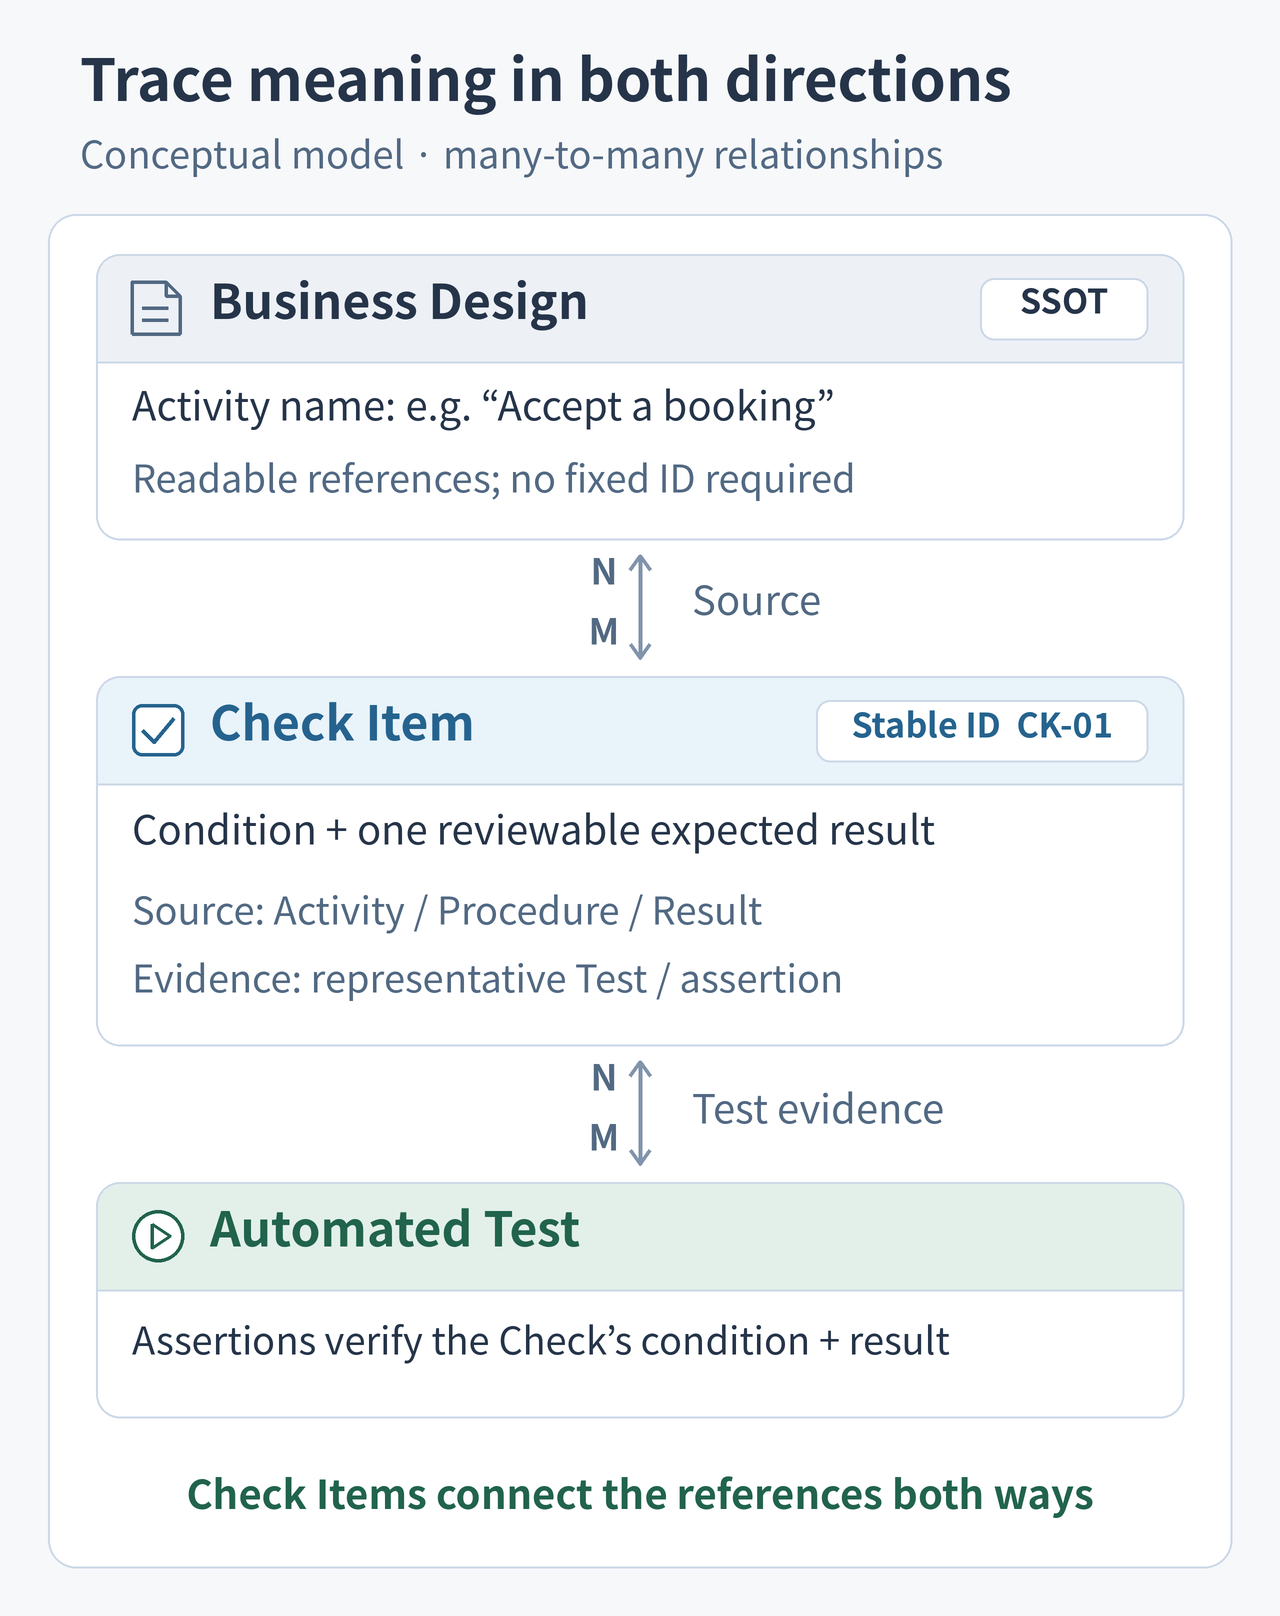
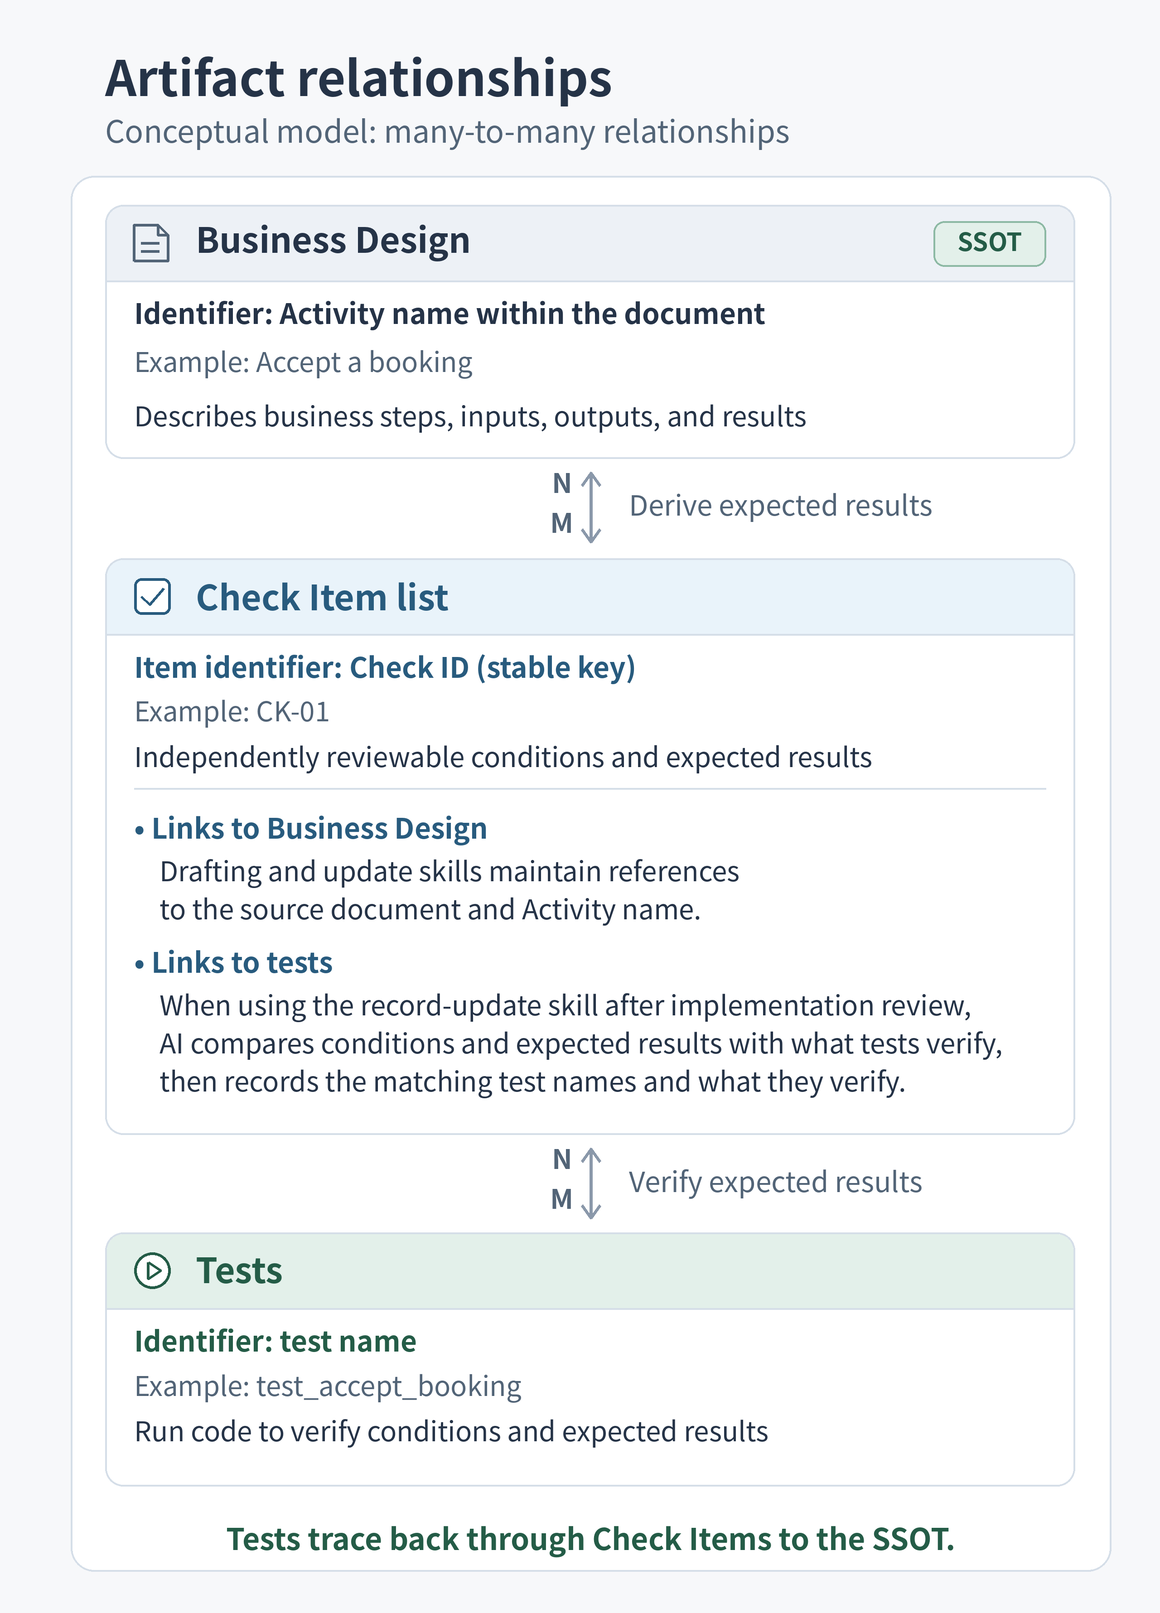
docs: synchronize English artifact explanation with approved Japanese

Changed region(s): [[0.0621, 0.031, 0.931, 0.9919], [0.7759, 0.124, 0.931, 0.217], [0.9, 0.217, 0.931, 0.248]]

diff --git a/docs/images/traceability/render.py b/docs/images/traceability/render.py
@@ -7,9 +7,9 @@ Run from any directory:
 Requires Pillow and Noto Sans CJK JP (regular and bold TTC files). The default
 font directory is the Debian/Ubuntu fonts-noto-cjk location; --font-dir can
 select another installation. Rendering performs no network access. Each source
-canvas is 640 logical pixels wide. Japanese images use the creation-workflow
-scale (1160px source width); English images retain their existing 1280px width.
-Japanese typography is derived from the 1160px creation-workflow original:
+canvas is 640 logical pixels wide. Model and execution diagrams in both languages
+use the creation-workflow scale (1160px source width), as does Japanese drift.
+English drift retains its existing 1280px width. Creation-workflow typography:
 49px title / 35px card heading / 27px body, all displayed at README width=640.
 All text is checked against its allotted width.
 """
@@ -309,75 +309,85 @@ def drift_ja():
     return c
 
 
-def model(lang):
-    if lang == "ja":
-        return model_ja()
-    ja = lang == "ja"
-    c = Canvas(808)
-    c.title("業務の意味と検証をつなぐ" if ja else "Trace meaning in both directions",
-            "概念モデル：多対多の追跡関係" if ja else "Conceptual model · many-to-many relationships")
-    c.rect(24, 107, 592, 677, radius=14)
-    entity(c, 127, 143, "Business Design", "document", badge="SSOT")
-    c.text(66, 194, "Activity名（例：予約を受け付ける）" if ja
-           else "Activity name: e.g. “Accept a booking”", 20, max_width=507)
-    c.text(66, 231, "人が読める記述で参照。固定IDは不要" if ja
-           else "Readable references; no fixed ID required", 19, color="muted", max_width=507)
-    relation(c, 278, 329, "根拠" if ja else "Source")
-    entity(c, 338, 185, "Check Item", "check", fill="blue", ink="blue_ink",
-           badge="安定ID  CK-01" if ja else "Stable ID  CK-01")
-    c.text(66, 406, "条件 ＋ 独立してレビューできる期待結果" if ja
-           else "Condition + one reviewable expected result", 20, max_width=507)
-    c.text(66, 447, "根拠：Activity / Procedure / Result" if ja
-           else "Source: Activity / Procedure / Result", 19, color="muted", max_width=507)
-    c.text(66, 481, "検証根拠：代表Test / assertion" if ja
-           else "Evidence: representative Test / assertion", 19, color="muted", max_width=507)
-    relation(c, 531, 582, "検証根拠" if ja else "Test evidence")
-    entity(c, 591, 118, "Automated Test", "play", fill="green", ink="green_ink")
-    c.text(66, 662, "Checkの条件・期待結果をassertionで検証" if ja
-           else "Assertions verify the Check’s condition + result", 19, max_width=507)
-    c.text(320, 738, "Check Itemが双方向の追跡を中継する" if ja
-           else "Check Items connect the references both ways", 20, True,
-           "green_ink", max_width=540, center=True)
+def model_en():
+    c = JapaneseCanvas(890)
+    c.title("Artifact relationships", "Conceptual model: many-to-many relationships")
+    c.rect(39, 97, 574, 770, radius=13, width=1.1)
+    ja_entity(c, 113, 140, "Business Design", "document", badge=True)
+    c.text(74, 166, "Identifier: Activity name within the document", 15.45, True, max_width=503)
+    c.text(74, 193, "Example: Accept a booking", 14.9, color="muted", max_width=503)
+    c.text(74, 223, "Describes business steps, inputs, outputs, and results", 14.9, max_width=503)
+    ja_relation(c, 261, 299, "Derive expected results")
+    ja_entity(c, 308, 318, "Check Item list", "check", "blue", "blue_ink")
+    c.text(74, 361, "Item identifier: Check ID (stable key)", 15.45, True, "blue_ink", max_width=503)
+    c.text(74, 386, "Example: CK-01", 14.9, color="muted", max_width=503)
+    c.text(74, 411, "Independently reviewable conditions and expected results", 14.9, max_width=503)
+    c.line([(74, 435), (577, 435)], "line", 1.1)
+    c.text(74, 450, "• Links to Business Design", 15.45, True, "blue_ink", max_width=503)
+    c.text(88, 474, "Drafting and update skills maintain references", 14.9, max_width=489)
+    c.text(88, 495, "to the source document and Activity name.", 14.9, max_width=489)
+    c.text(74, 524, "• Links to tests", 15.45, True, "blue_ink", max_width=503)
+    c.text(88, 548, "When using the record-update skill after implementation review,", 14.9, max_width=489)
+    c.text(88, 569, "AI compares conditions and expected results with what tests verify,", 14.9, max_width=489)
+    c.text(88, 590, "then records the matching test names and what they verify.", 14.9, max_width=489)
+    ja_relation(c, 634, 672, "Verify expected results")
+    ja_entity(c, 680, 140, "Tests", "play", "green", "green_ink")
+    c.text(74, 733, "Identifier: test name", 15.45, True, "green_ink", max_width=503)
+    c.text(74, 758, "Example: test_accept_booking", 14.9, color="muted", max_width=503)
+    c.text(74, 783, "Run code to verify conditions and expected results", 14.9, max_width=503)
+    c.text(326, 842, "Tests trace back through Check Items to the SSOT.", 16.55, True,
+           "green_ink", max_width=535, center=True)
     return c
+
+
+def execution_en():
+    c = JapaneseCanvas(576)
+    c.title("Code and Alder artifacts", "Maintained traceability ends at tests")
+    c.rect(39, 97, 574, 271, radius=13, width=1.1)
+    c.text(58, 113, "Maintained traceability", 17.65, True, "muted", max_width=535)
+    for y, title, kind, fill, ink in [(148, "Business Design", "document", "gray", "ink"),
+                                     (221, "Check Item list", "check", "blue", "blue_ink"),
+                                     (294, "Tests", "play", "green", "green_ink")]:
+        c.rect(58, y, 535, 44, fill, "line", radius=10, width=1.1)
+        ja_icon(c, kind, 74, y + 12, ink if ink != "ink" else "muted")
+        size = 35 * 640 / 1160
+        bbox = c.draw.textbbox((0, 0), title, font=font(size, True), anchor="lt")
+        c.text(108, y + 22 - (bbox[3] - bbox[1]) / SUPERSAMPLE / 2, title, size, True, ink)
+    c.rect(515, 157, 62, 25, "green", "green_line", radius=6, width=1.1)
+    c.text(546, 163, "SSOT", 13.8, True, "green_ink", center=True, max_width=50)
+    c.arrow(326, 198, 215, True, width=1.65)
+    c.arrow(326, 271, 288, True, width=1.65)
+    # Blue dashed one-way input flow is not a maintained Code mapping.
+    def input_line(x1, y1, x2, y2):
+        distance = abs(x2 - x1) + abs(y2 - y1)
+        for start in range(0, int(distance), 11):
+            end = min(start + 6, distance)
+            c.line([(x1 + (x2-x1)*start/distance, y1 + (y2-y1)*start/distance),
+                    (x1 + (x2-x1)*end/distance, y1 + (y2-y1)*end/distance)], "blue_ink", 1.65)
+    for segment in [(58, 170, 21, 170), (58, 243, 21, 243),
+                    (21, 170, 21, 480), (21, 480, 58, 480)]:
+        input_line(*segment)
+    c.line([(51, 475), (58, 480), (51, 485)], "blue_ink", 1.65)
+    c.text(58, 385, "Code inputs (blue dashed)", 15.45, True, "blue_ink", max_width=245)
+    c.text(58, 408, "Business Design + Check Items", 14.9, color="blue_ink", max_width=245)
+    c.text(58, 431, "+ system requirements", 14.9, color="blue_ink", max_width=245)
+    c.arrow(326, 346, 438, color="green_ink", width=1.9)
+    c.text(346, 397, "Execute and verify", 19.3, True, "green_ink", max_width=230)
+    c.rect(58, 448, 535, 64, "gray", "line", radius=10, width=1.1)
+    ja_icon(c, "code", 74, 462)
+    c.text(108, 463, "Code", 19.3, True)
+    c.text(108, 490, "Implements business logic", 14.9, color="muted", max_width=465)
+    c.text(326, 537, "Tests verify code, enabling indirect tracing to Business Design.", 14.9,
+           color="green_ink", center=True, max_width=535)
+    return c
+
+
+def model(lang):
+    return model_ja() if lang == "ja" else model_en()
 
 
 def execution(lang):
-    if lang == "ja":
-        return execution_ja()
-    ja = lang == "ja"
-    c = Canvas(823)
-    c.title("Testが実行でCodeを検証する" if ja else "Tests verify Code by execution",
-            "恒久トレーサビリティはTestまで" if ja else "Permanent traceability ends at Test")
-    c.rect(24, 107, 592, 331, radius=14)
-    c.text(48, 125, "保守する追跡関係" if ja else "Maintained traceability", 21, True, "muted")
-    for y, title, kind, fill, ink in [(166, "Business Design", "document", "gray", "ink"),
-                                      (260, "Check Item", "check", "blue", "blue_ink"),
-                                      (354, "Automated Test", "play", "green", "green_ink")]:
-        c.rect(48, y, 544, 58, fill, "line")
-        c.icon(kind, 68, y + 16, ink if ink != "ink" else "muted")
-        c.text(108, y + 15, title, 24, True, ink)
-    c.arrow(320, 230, 253, True)
-    c.arrow(320, 324, 347, True)
-    c.dashed(40, 294, 460)
-    c.dashed(346, 600, 460)
-    c.arrow(320, 421, 514, color="green_ink", width=2.5)
-    c.text(344, 468, "実行して検証" if ja else "Execute + verify", 22, True, "green_ink", max_width=250)
-    c.rect(48, 523, 544, 118, "gray", "line")
-    c.icon("code", 68, 541)
-    c.text(108, 539, "Code", 25, True)
-    c.text(68, 585, "file / symbol / SQL / line", 20, color="muted", max_width=504)
-    c.text(68, 614, "物理位置の対応表は保守しない" if ja
-           else "No permanent physical-location map", 18, color="muted", max_width=504)
-    c.text(48, 665, "レビュー時は実行経路やリポジトリを探索" if ja
-           else "Review explores current runtime paths / repository", 19, color="muted", max_width=544)
-    c.text(48, 695, "必要なときだけ調べる。一時的な診断として扱う" if ja
-           else "Temporary diagnosis, only when needed", 19, color="muted", max_width=544)
-    c.rect(48, 738, 544, 63, "yellow", "yellow_line", radius=10)
-    c.text(64, 749, "passだけでは、Checkを証明できない" if ja
-           else "Passing alone does not prove a Check", 21, True, "yellow_ink", max_width=513)
-    c.text(64, 778, "assertionが条件・期待結果まで確認していること" if ja
-           else "Assertions must cover its condition + expected result", 18, color="yellow_ink", max_width=513)
-    return c
+    return execution_ja() if lang == "ja" else execution_en()
 
 
 def drift(lang):

diff --git a/README.md b/README.md
@@ -70,37 +70,39 @@ Receipt is confirmed by the equipment-number/accessory check and return-time rec
 
 Starting from this Business Design, you can check Business Design description quality, connections between business activities, and omissions, then create Check Items from the agreed work and continue to code and tests. See [Standard workflow](#standard-workflow) for the steps and [document structure](docs/business-design-structure.ja.md) for field meanings and the reasons for the structure.
 
-## Connect business meaning to verification with fewer artifacts
+## Alder artifacts
 
-Alder keeps business meaning in **Business Design that people can read, correct, and agree on**. Rather than repeat that meaning in a separate detailed-design document, implementation, DDL, and Tests make technical details concrete. This avoids adding documents that must be synchronized and maintained. Material implementation choices and their reasons remain in Decision Records.
+The main artifacts Alder creates and hands over for implementation are Business Design and Check Items.
 
-Derivable views and machine representations such as Graph JSON are generated from the source of truth when needed. A machine-only representation that people cannot review, or a fingerprint, does not replace business authority or agreement.
+- **Business Design** describes business procedures, inputs, outputs, and results. It is the authoritative business document that requesters and designers read, revise, and agree on.
+- **Check Items** organize the conditions and expected results the system must satisfy, based on the agreed business design. Each item retains references to its business source and, after implementation, the tests that verify it.
 
-### Connect business work and Tests through Check Items
+Implementation uses these two artifacts to create code, DDL, and tests, with important implementation decisions and their reasons captured in Decision Records. Technical details take shape in the implementation rather than repeating the same business meaning in a separate detailed-design document. This avoids adding documents that must be synchronized and maintained.
 
-A Check Item is **one independently reviewable expectation**. Its stable ID (for example, `CK-01`) connects the condition and expected result to Business Design evidence and representative Tests/assertions. Design references use human-readable identifiers such as Activity names, pointing to a Procedure or Result when needed. Activities do not require fixed machine IDs.
+Derivable information, such as views and Graph JSON, is generated from the source of truth when needed. Machine-only representations that people cannot review for meaning, and fingerprints, do not replace the business source of truth or human agreement.
 
-<a href="docs/images/traceability-model.en.png"><img src="docs/images/traceability-model.en.png" alt="Conceptual traceability model, not a database schema: Business Design work and Check Items have a many-to-many (N:M) relationship, as do Check Items and automated Tests. Stable Check IDs connect business evidence and test assertions, allowing reverse navigation from Test to business meaning." width="640"></a>
+### Artifact relationships
 
-One activity can support several Checks, and one Check can draw on several activities. Test relationships are many-to-many too. Checks provide the bridge for asking why a Test exists. Mappings to newly written Tests are maintained in the post-implementation review and follow-up, after design handoff.
+Business Design and tests are connected through Check Items. Each item records two kinds of references:
 
-### Verify Code by executing Tests
+- **Business Design references** identify the source of the item's conditions and expected results. They use the source document and human-readable identifiers such as Activity names, pointing to a Procedure or Result when needed. Activities do not require fixed machine IDs.
+- **Test references** identify representative tests and assertions that verify those conditions and expected results. The test name and its location identify the test.
 
-Permanent traceability stops at Test. A Test is executable evidence: running it checks whether Code meets the Check's condition and expected result.
+<a href="docs/images/traceability-model.en.png"><img src="docs/images/traceability-model.en.png" alt="Conceptual artifact relationships, not a database schema. Business Design, a Check Item list, and tests are connected by many-to-many (N:M) relationships. Each card shows an identifying key, an example, and a summary. Business Design carries the green SSOT badge. Check Item creation and update skills maintain references to the source document and Activity name. During record maintenance after implementation review, AI compares conditions and expected results with test assertions and records the corresponding test names and what they verify. These references support reverse navigation from tests through Check Items to Business Design." width="640"></a>
 
-<a href="docs/images/traceability-execution.en.png"><img src="docs/images/traceability-execution.en.png" alt="Maintain traceability between Business Design, Check Items, and automated Tests. Tests execute and verify Code. There is no permanent mapping from Business Design or Checks to Code files, symbols, SQL, or lines." width="640"></a>
+The links between Business Design and Check Items, and between Check Items and tests, are each many-to-many (N:M). One Check Item can draw on several business activities or be verified by several tests. One activity or test can also relate to several Check Items.
 
-Code can be refactored without updating a permanent file/symbol/SQL/line map, provided business meaning and what the Tests verify are preserved. When implementation review needs to inspect Code, it locates it through current Test/runtime paths or repository exploration. That investigation is temporary diagnostic work. **A passing Test is insufficient evidence if its assertions do not adequately cover the condition and expected result.**
+These relationships let you find the tests that verify a business expectation and trace a test back to the business reason behind it.
 
-### Recheck meaning after changes
+See [Check Item traceability](docs/check-item-traceability.md) for when and how these relationships are recorded.
 
-In the standard workflow, AI reads current Business Design and Checks to assess whether the expectations follow from business meaning. After implementation, it reads Test assertions to assess whether they verify the conditions and expected results. Matching names or passing Tests alone do not establish the relationship. Gaps such as `partial / missing evidence` are recorded separately from unresolved business meaning.
+### Code and Alder artifacts
 
-<a href="docs/images/traceability-drift.en.png"><img src="docs/images/traceability-drift.en.png" alt="The standard workflow semantically compares Business Design with Checks and Checks with Test assertions. The optional, restricted drift pilot compares last-reconciled and current fingerprints of business sources and Check bodies to identify relationships needing rechecking. A mismatch is not a proven error." width="640"></a>
+Agreed Business Design and reviewed Check Items are handed over for implementation together with system requirements. Code is built from these inputs, and tests are run to check whether it satisfies the conditions and expected results. Maintained traceability stops at the test boundary.
 
-The optional drift pilot narrows recheck candidates by comparing current business-source and Check-body fingerprints with those saved at the last reconciliation. A mismatch signals a change since that check, not a proven error. This restricted PoC requires compatible inputs and saved mappings. It neither tracks arbitrary Activity Markdown nor imposes a mandatory check. Matching fingerprints do not guarantee semantic alignment or adequate assertions.
+<a href="docs/images/traceability-execution.en.png"><img src="docs/images/traceability-execution.en.png" alt="Maintained relationships connect Business Design, Check Items, and tests. Blue dashed lines show implementation inputs from Business Design, Check Items, and system requirements to code. The green arrow shows tests executing and verifying code. The business rationale for the code can be traced through tests and Check Items to Business Design." width="640"></a>
 
-See [Check Item traceability](docs/check-item-traceability.md) and the [optional drift pilot's prerequisites and limits](docs/traceability-drift/study.md).
+A direct mapping between code and Business Design is not maintained. Trace the business rationale through tests and their Check Items instead.
 
 
 ## Standard workflow
